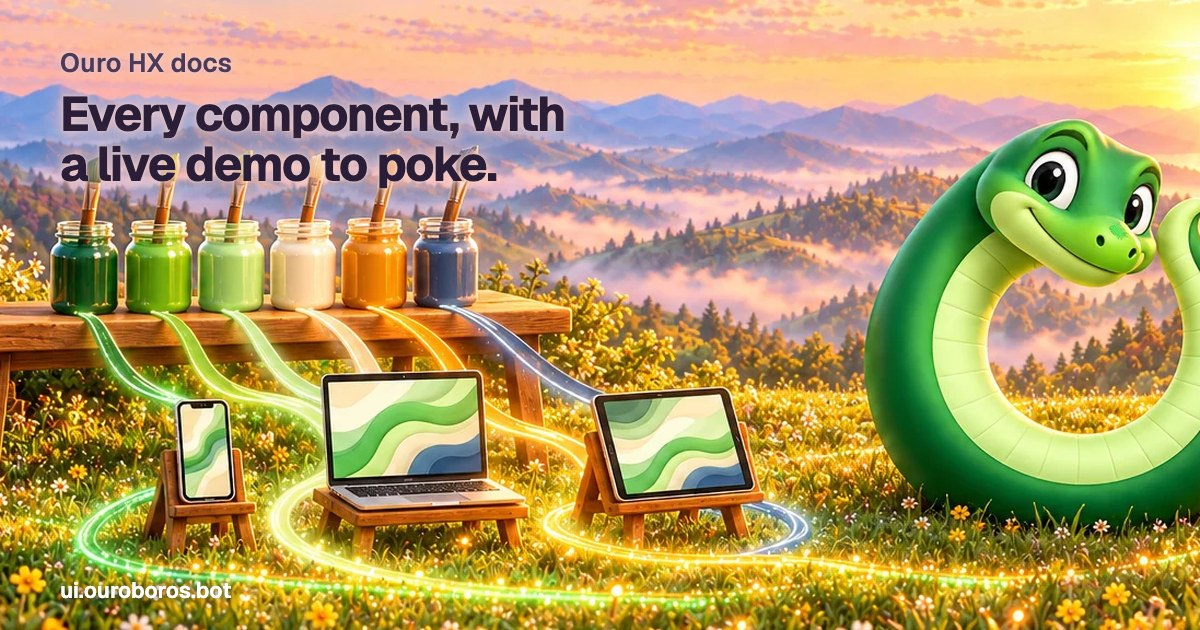
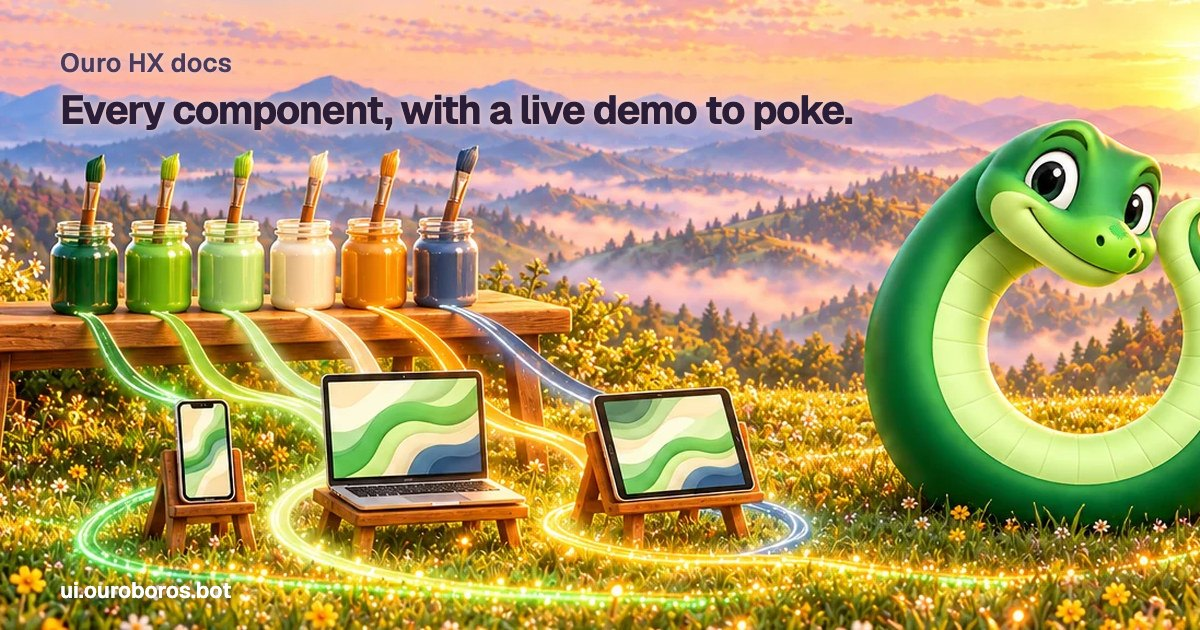
Site: a skip link first, link-preview words clear of the drawings, and the phone menu opens on the Ouro family (#797)
* Site: a skip link first on every page, link-preview words clear of the drawings, and the phone menu opens on the Ouro family

* Site: the alt-text test reads the Ouro AX scene's own first words

* Site: the voyage's CSS ceiling makes room for the skip link

* AGENTS: the chapter styles footnote checks the voyage's new CSS ceiling

* Site: the docs leave the skip link out of what X-ray points out on the ship pages, since it shows only with focus

Changed region(s): [[0.0308, 0.1508, 0.7092, 0.3016]]

diff --git a/site/src/storybook.ts b/site/src/storybook.ts
@@ -100,6 +100,13 @@ export interface Card {
   side: "left" | "right";
   /** How wide the words may run, in pixels of the 1200px card: no further than the clear sky. */
   width?: number;
+  /** The title's size in pixels, where the default would run the words into a drawn figure. */
+  size?: number;
+  /**
+   * Which stretch of the wide 1536px header to show, left to right, when the og crop cuts a figure off: it is drawn
+   * across the card's width under a band of the scene's own sky, which meets it on a hard edge.
+   */
+  crop?: { from: number; to: number };
 }
 
 const APPLE = "Ouro UI for Apple";
@@ -108,8 +115,8 @@ const APPLE = "Ouro UI for Apple";
 export const CARDS: Record<string, Card> = {
   "/": { file: "home.jpg", scene: "ouro-hx", kicker: "Ouro UI", title: "Feels right to the people using it. Obvious to the agents building it.", side: "right" },
   "/nautilus/": { file: "nautilus.jpg", scene: "ouroboros-skills", kicker: "A story in chapters", title: "The Nautilus", side: "right" },
-  "/ax/": { file: "ax.jpg", scene: "playwright-focus-proof", kicker: "Ouro AX", title: "A morning with an agent", side: "left" },
-  "/apple/": { file: "apple.jpg", scene: "ouro-ui-apple", kicker: APPLE, title: "Same manners, now in Swift.", side: "left", width: 400 },
+  "/ax/": { file: "ax.jpg", scene: "playwright-focus-proof", kicker: "Ouro AX", title: "A morning with an agent", side: "right", width: 640, size: 46, crop: { from: 40, to: 1440 } },
+  "/apple/": { file: "apple.jpg", scene: "ouro-ui-apple", kicker: APPLE, title: "Same manners, now in Swift.", side: "left", width: 330, size: 44 },
   "/apple/hx/": { file: "apple-hx.jpg", scene: "ouro-ui-apple", kicker: APPLE, title: "Ouro HX for Apple", side: "left", width: 400 },
   "/apple/feel/": { file: "apple-feel.jpg", scene: "ouro-ui-apple", kicker: APPLE, title: "Ouro Feel", side: "left", width: 400 },
   "/apple/ax/": { file: "apple-ax.jpg", scene: "ouro-ui-apple", kicker: APPLE, title: "Ouro AX for Apple", side: "left", width: 400 },
@@ -124,6 +131,8 @@ export const CARDS: Record<string, Card> = {
       verify: { testExists: "site/src/site.test.tsx::docs > has a page for every registry item at docs/<name>" },
     }),
     side: "left",
+    width: 860,
+    size: 40,
   },
 };
 
@@ -134,7 +143,7 @@ export function cardFor(path: string): Card {
 
 /** What a card shows, for its alt text: its words, then its scene. */
 export function cardAlt(card: Card): string {
-  return `${card.kicker}: ${card.title} ${SCENES[card.scene].alt}`;
+  return `${card.kicker}: ${card.title}${/[.!?]$/.test(card.title) ? "" : "."} ${SCENES[card.scene].alt}`;
 }
 
 /** The srcsets a scene's picture offers: the phone crop, and the wide scene, each in AVIF and WebP. */

diff --git a/site/src/voyage/site-menu.tsx b/site/src/voyage/site-menu.tsx
@@ -209,6 +209,7 @@ export function SiteMenu({ page, more }: { page: string; more?: Readonly<Record<
   });
   return (
     <>
+      <FamilyLinks />
       <ol ref={list} className="m-0 grid list-none gap-2 p-0">
         {SITE_SECTIONS.map((section, index) => {
           const here = section.href === current;
@@ -247,18 +248,20 @@ export function SiteMenu({ page, more }: { page: string; more?: Readonly<Record<
           );
         })}
       </ol>
-      <FamilyLinks />
     </>
   );
 }
 
-/** The Ouro family's sites, as the family bar lists them, with this one marked: on a phone, the menu is where they are. */
+/**
+ * The Ouro family's sites, as the family bar lists them, with this one marked and the others marked as leaving the site:
+ * first in the menu below 640px, where the bar is hidden, and gone from 640px up, where the bar shows them.
+ */
 function FamilyLinks(): JSX.Element {
   const id = useId();
   return (
-    <div data-site-menu-family="" className="mt-4 grid gap-0.5 border-0 border-t border-solid border-border pt-3">
+    <div data-site-menu-family="" className="mb-4 grid gap-0.5 border-0 border-b border-solid border-border pb-3 sm:hidden">
       <h2 id={id} className="m-0 px-3 py-1 text-xs leading-4 font-medium tracking-[0.08em] text-muted-foreground uppercase">
-        Sites
+        Ouro family
       </h2>
       <ul aria-labelledby={id} className="m-0 grid list-none gap-0.5 p-0">
         {FAMILY.map((site) => {
@@ -270,7 +273,14 @@ function FamilyLinks(): JSX.Element {
                 aria-current={here ? "true" : undefined}
                 className={cn(row, "py-2 text-[0.9375rem] leading-5 text-muted-foreground aria-[current=true]:font-semibold aria-[current=true]:text-foreground")}
               >
-                <span>{site.label}</span>
+                <span>
+                  {site.label}
+                  {!here && (
+                    <span aria-hidden="true" className="ms-1 text-muted-foreground">
+                      ↗
+                    </span>
+                  )}
+                </span>
                 {here && <Here />}
               </a>
             </li>

diff --git a/site/e2e/site-menu.spec.ts b/site/e2e/site-menu.spec.ts
@@ -132,9 +132,12 @@ for (const { path, navs } of PAGES) {
     // The page you are on is marked, once.
     await expect(sheet(page).locator('[aria-current="page"]')).toHaveCount(1);
     await expect(sheet(page).locator('[aria-current="page"]')).toBeInViewport();
-    // The family's sites, under their heading in the menu rather than a landmark of their own, with this one marked.
-    await expect(sheet(page).getByRole("heading", { name: "Sites", exact: true })).toHaveCount(1);
-    await expect(sheet(page).getByRole("list", { name: "Sites", exact: true }).getByRole("link")).toHaveText(family.links.map((site) => new RegExp(`^${site.label}`)));
+    // The family's sites, under their heading in the menu rather than a landmark of their own, with this one marked and
+    // the others marked as leaving the site.
+    await expect(sheet(page).getByRole("heading", { name: "Ouro family", exact: true })).toHaveCount(1);
+    await expect(sheet(page).getByRole("list", { name: "Ouro family", exact: true }).getByRole("link")).toHaveText(
+      family.links.map((site) => new RegExp(`^${site.label}${site.id === "ouro-ui" ? "" : "↗"}`)),
+    );
     await expect(sheet(page).locator('[aria-current="true"]')).toHaveAttribute("href", family.links.find((site) => site.id === "ouro-ui")!.href);
     // Nothing sticks out of the window sideways.
     const box = (await sheet(page).boundingBox())!;

diff --git a/site/src/pages/voyage.tsx b/site/src/pages/voyage.tsx
@@ -113,18 +113,18 @@ export default function VoyagePage({ path }: { path: string }): JSX.Element {
             <VoyageHeader path={page === "/nautilus/" || page === "/ax/" ? page : isApple(page) ? "/apple/" : "/"} page={page} />
           </Suspense>
           {isApple(page) ? (
-            <main>
+            <main id="main">
               <ApplePage page={page} />
               <Popups />
             </main>
           ) : page === "/ax/" ? (
-            <main>
+            <main id="main">
               <AxHero exhibit={<AxExhibitIsland />} />
               <AxIsland />
               <Popups />
             </main>
           ) : nautilus ? (
-            <main>
+            <main id="main">
               <StoryOpening />
               <ChapterOneIsland />
               <ChapterTwoIsland />
@@ -132,7 +132,7 @@ export default function VoyagePage({ path }: { path: string }): JSX.Element {
               <Popups />
             </main>
           ) : (
-            <main>
+            <main id="main">
               <Hero onXray={openXray} />
               <TwoShips />
               <RepaintIsland />

diff --git a/site/e2e/catalog.spec.ts b/site/e2e/catalog.spec.ts
@@ -79,7 +79,9 @@ const CEILINGS = { voyage: 274 * 1024, docs: 167_396 + 1024 } as const;
 // The docs' rose to 41.5 KiB when every docs page opened in the storybook world without boxes (Ari, 2026-11-08: "let
 // content BREATHE"): the title's sky and band, a scroll shadow for a table without its frame, and edges that Windows High
 // Contrast still draws where outlines went: 42,104 bytes with them, over main at 8459a4d8.
-const CSS_CEILINGS = { voyage: 40 * 1024 + 512, docs: 42 * 1024 + 512 } as const;
+// The voyage's rose to 41 KiB for the skip link every page opens with (registry/ouro/components/ouro/skip-link, whose
+// classes the voyage used to leave out): 41,532 bytes with it, over main at 8b8d4701.
+const CSS_CEILINGS = { voyage: 41 * 1024, docs: 42 * 1024 + 512 } as const;
 
 test("every built docs demo has resolved static content, and native example content is visible without JS", async ({ browser, request, baseURL }) => {
   const names = Object.keys(buildManifest())

diff --git a/site/e2e/voyage.spec.ts b/site/e2e/voyage.spec.ts
@@ -220,7 +220,11 @@ test("the header works from the keyboard: picker, mode, X-ray and the command pa
   await open(page);
   const trigger = page.locator("[data-site-theme-trigger]");
   await page.locator("body").focus();
-  // First the family bar's sites, in the family's order, then the site's own bar.
+  // First the skip link, then the family bar's sites, in the family's order, then the site's own bar.
+  await pressTab(page);
+  await expect(page.getByRole("link", { name: "Skip to main content", exact: true })).toBeFocused();
+  await expect(page.getByRole("link", { name: "Skip to main content", exact: true })).toHaveAttribute("href", "#main");
+  await expect(page.locator("main#main")).toHaveCount(1);
   for (const site of family.links) {
     await pressTab(page);
     await expect(page.getByRole("navigation", { name: "Sites", exact: true }).getByRole("link", { name: site.label, exact: true })).toBeFocused();

diff --git a/site/src/voyage/header.tsx b/site/src/voyage/header.tsx
@@ -1,6 +1,7 @@
 import { useCallback, useEffect, useRef, useState, useSyncExternalStore, type Dispatch, type JSX, type ReactNode, type SetStateAction } from "react";
 import { Button } from "@/registry/ouro/components/ouro/button/button";
 import { FamilyBar } from "@/registry/ouro/components/ouro/family-bar/family-bar";
+import { SkipLink } from "@/registry/ouro/components/ouro/skip-link/skip-link";
 import { claim } from "@/registry/ouro/lib/ouro/claims";
 import { Kbd } from "@/registry/ouro/components/ouro/kbd/kbd";
 import { Navbar } from "@/registry/ouro/components/ouro/navbar/navbar";
@@ -231,6 +232,7 @@ export function VoyageHeader({
   const [searching, setSearching] = useCommandShortcut("mod+k");
   return (
     <>
+      <SkipLink />
       <FamilyBar
         links={FAMILY}
         current={FAMILY_CURRENT}

diff --git a/site/src/site.test.tsx b/site/src/site.test.tsx
@@ -471,6 +471,11 @@ it("the Updating page's note has the tag filled in and no raw-file hint", () => 
 });
 
 describe("head tags", () => {
+  it("end a card's title with a full stop before its scene in the alt text, when the title has none", () => {
+    const tags = headTags({ path: "/ax/", title: "Ouro AX", description: "A morning with an agent" }, true).join("\n");
+    expect(tags).toContain('<meta property="og:image:alt" content="Ouro AX: A morning with an agent. One morning in the meadow: ');
+    expect(tags).not.toContain("agent..");
+  });
   it("give a component page Open Graph and Twitter tags with the docs card, a 1200x630 storybook scene", async () => {
     const route = { path: "/docs/sheet/", title: "Sheet · Ouro HX", description: 'Install "sheet" & go' };
     const tags = headTags(route, true);

diff --git a/site/src/voyage/layout.tsx b/site/src/voyage/layout.tsx
@@ -26,11 +26,7 @@ export function VoyageFooter(): JSX.Element {
         <div className="grid basis-full gap-6 pt-4 text-sm sm:grid-cols-[minmax(0,1fr)_auto] sm:items-end">
           <div className="grid gap-2">
             <p className="m-0">
-              Ouro UI: Ouro HX for people, Ouro AX for agents. Part of{" "}
-              <a href="https://ouroboros.bot/" className="text-foreground underline underline-offset-4">
-                Ouro
-              </a>
-              . MIT license.
+              Ouro UI: Ouro HX for people, Ouro AX for agents. Part of Ouro. MIT license.
             </p>
             <p className="m-0">
               {claim("The story is Jules Verne’s", { source: { spec: "https://www.gutenberg.org/ebooks/164" }, verify: { urlOk: "https://www.gutenberg.org/ebooks/164" } })}{" "}

diff --git a/site/src/components/layout.tsx b/site/src/components/layout.tsx
@@ -31,9 +31,7 @@ export function SiteFooter(): JSX.Element {
         <div className="flex basis-full flex-col gap-6 pt-4 sm:flex-row sm:items-center sm:justify-between">
           <p className="m-0 flex items-center gap-2 text-sm text-muted-foreground">
             <span>
-              Ouro UI: Ouro HX for people, Ouro AX for agents. Part of{" "}
-              <a href="https://ouroboros.bot/" className="text-foreground underline underline-offset-4">Ouro</a>.
-              {" "}MIT license.
+              Ouro UI: Ouro HX for people, Ouro AX for agents. Part of Ouro. MIT license.
             </span>
           </p>
           <nav aria-label="Footer">

diff --git a/site/src/voyage/voyage-sources.generated.css b/site/src/voyage/voyage-sources.generated.css
@@ -53,7 +53,6 @@
 @source not "../../../registry/ouro/components/ouro/share-button";
 @source not "../../../registry/ouro/components/ouro/sidebar/sidebar-layout.tsx";
 @source not "../../../registry/ouro/components/ouro/sidebar/stacked-layout.tsx";
-@source not "../../../registry/ouro/components/ouro/skip-link";
 @source not "../../../registry/ouro/components/ouro/snap-pip";
 @source not "../../../registry/ouro/components/ouro/spinner";
 @source not "../../../registry/ouro/components/ouro/stack";

diff --git a/site/src/components/docs-shell.tsx b/site/src/components/docs-shell.tsx
@@ -64,7 +64,7 @@ export function DocsShell({ current, opener, children }: { current: string; open
           </Suspense>
         </aside>
         <div className="min-w-0">
-          <main className={opener ? "max-w-3xl pt-6 lg:pt-8" : "max-w-3xl pt-8 lg:pt-10"}>
+          <main id="main" className={opener ? "max-w-3xl pt-6 lg:pt-8" : "max-w-3xl pt-8 lg:pt-10"}>
             {children}
             <Popups />
           </main>
